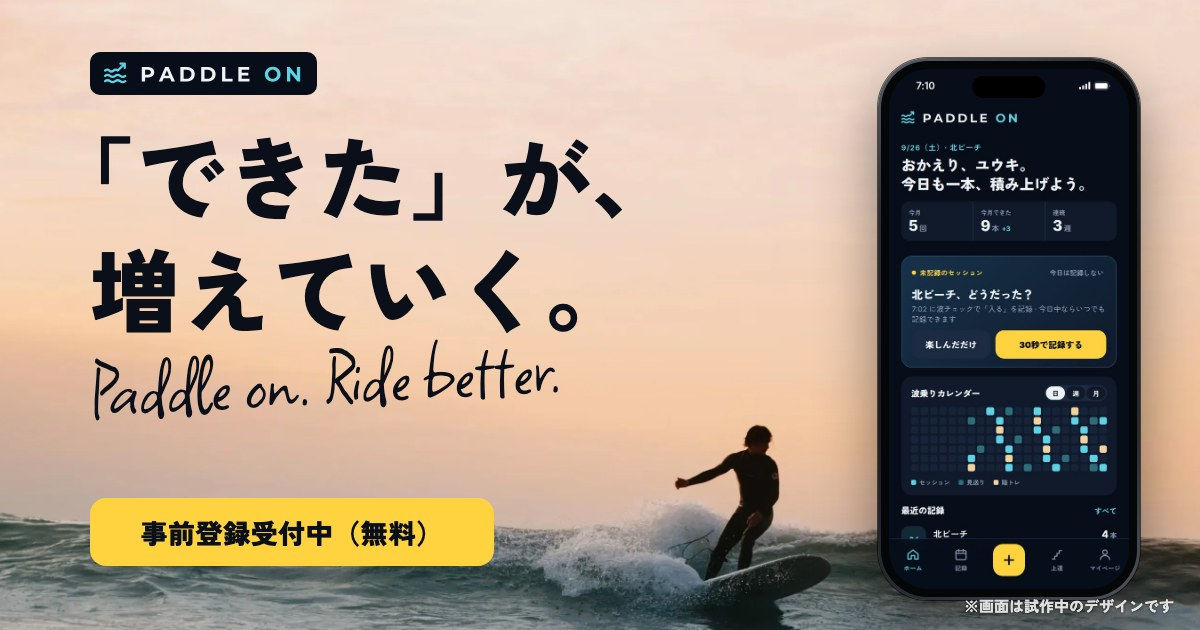
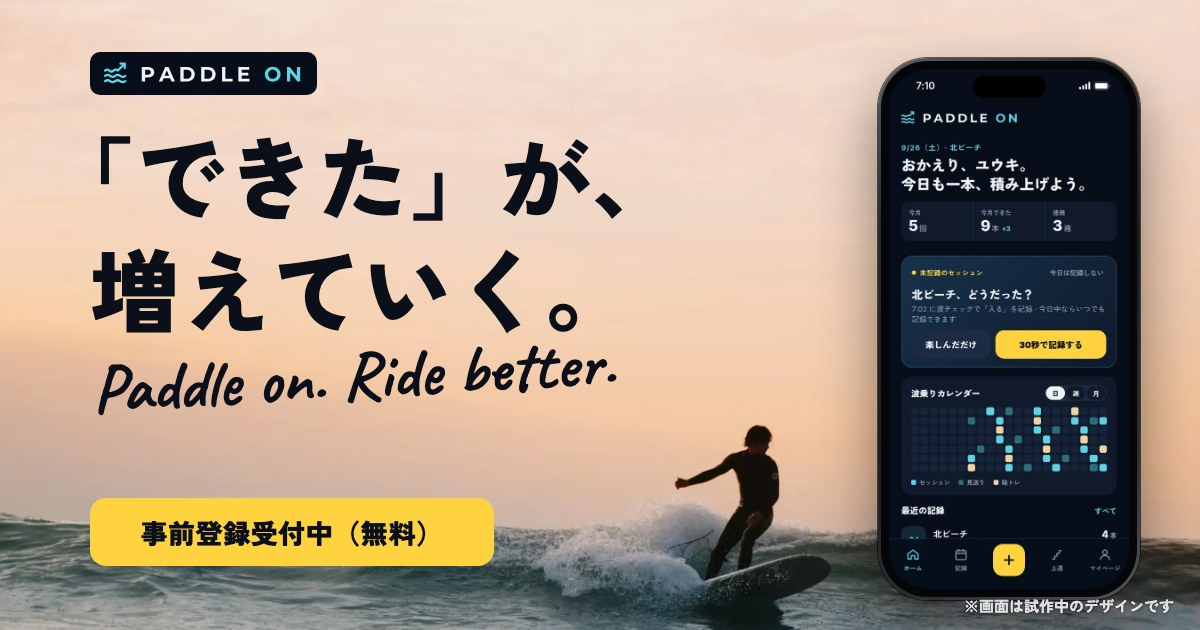
キャッチコピーのフォントを Caveat に変更（LP と OGP 画像）

Changed region(s): [[0.0617, 0.5429, 0.5242, 0.6635]]

diff --git a/og/og.html b/og/og.html
@@ -10,7 +10,7 @@
 -->
 <link rel="preconnect" href="https://fonts.googleapis.com">
 <link rel="preconnect" href="https://fonts.gstatic.com" crossorigin>
-<link href="https://fonts.googleapis.com/css2?family=Square+Peg&display=block" rel="stylesheet">
+<link href="https://fonts.googleapis.com/css2?family=Caveat:wght@600&display=block" rel="stylesheet">
 <style>
 @font-face{font-family:'Zen Kaku Gothic New';font-weight:700;src:url(../public/fonts/zkgn-700.woff2) format('woff2')}
 @font-face{font-family:'Zen Kaku Gothic New';font-weight:900;src:url(../public/fonts/zkgn-900.woff2) format('woff2')}
@@ -21,7 +21,7 @@ body{position:relative;font-family:'Zen Kaku Gothic New',sans-serif;color:#0A0F1
   --bg-w:2330px;--bg-x:-480px;--bg-y:-180px}
 .logo{position:absolute;left:90px;top:52px;display:flex;align-items:center;height:43px;padding:0 14px;border-radius:10px;background:#070E1A}
 h1{position:absolute;left:90px;top:118px;margin:0;font-weight:900;font-size:90px;line-height:1.25;letter-spacing:.01em;text-indent:-.5em;padding-left:.5em;margin-left:-.5em;white-space:nowrap}
-.tagline{position:absolute;left:92px;top:352px;font-family:'Square Peg',cursive;font-size:84px;line-height:1;white-space:nowrap;transform:rotate(-3deg);transform-origin:left center}
+.tagline{position:absolute;left:92px;top:356px;font-family:'Caveat',cursive;font-weight:600;font-size:68px;line-height:1;white-space:nowrap;transform:rotate(-3deg);transform-origin:left center}
 .cta{position:absolute;left:90px;top:498px;display:flex;align-items:center;justify-content:center;width:404px;height:68px;border-radius:16px;background:#FFD23F;font-weight:900;font-size:27px;letter-spacing:.02em}
 /* アプリの画面（LP の .iphone と同じ作り） */
 .iphone{--w:262px;position:absolute;left:878px;top:58px;width:var(--w);padding:3px;border-radius:calc(var(--w)*.19);background:linear-gradient(145deg,#5A5F69 0%,#2A2D33 22%,#1B1D21 50%,#2A2D33 78%,#50545D 100%);box-shadow:0 30px 60px rgba(0,0,0,.45),0 0 0 1px rgba(0,0,0,.6)}

diff --git a/public/index.html b/public/index.html
@@ -29,7 +29,7 @@
 <link rel="preload" as="image" href="img/hero-bg-sp.webp" media="(max-width:960px)" fetchpriority="high">
 <link rel="preconnect" href="https://fonts.googleapis.com">
 <link rel="preconnect" href="https://fonts.gstatic.com" crossorigin>
-<link href="https://fonts.googleapis.com/css2?family=Inter:wght@400;600;700;800;900&family=Montserrat:wght@700&family=Square+Peg&display=swap" rel="stylesheet">
+<link href="https://fonts.googleapis.com/css2?family=Inter:wght@400;600;700;800;900&family=Montserrat:wght@700&family=Caveat:wght@600&display=swap" rel="stylesheet">
 <style>
 @font-face{font-family:'Zen Kaku Gothic New';font-weight:500;font-display:swap;src:url(fonts/zkgn-500.woff2) format('woff2')}
 @font-face{font-family:'Zen Kaku Gothic New';font-weight:700;font-display:swap;src:url(fonts/zkgn-700.woff2) format('woff2')}
@@ -79,7 +79,7 @@ section{scroll-margin-top:72px}
 .hero .copy{display:flex;flex-direction:column;gap:22px}
 .pill{align-self:flex-start;font-size:12px;font-weight:700;color:var(--cyan);letter-spacing:.1em;border:1px solid rgba(94,211,230,.4);padding:4px 10px;border-radius:999px}
 .hero h1{font-size:clamp(36px,5.6vw,58px);line-height:1.25;text-indent:-.5em}
-.tagline{font-family:'Square Peg',cursive;font-weight:400;letter-spacing:.01em;color:var(--cyan);font-size:clamp(40px,4.1vw,52px);line-height:1.1;transform:rotate(-3deg);transform-origin:left center;margin-top:-4px}
+.tagline{font-family:'Caveat',cursive;font-weight:600;letter-spacing:.01em;color:var(--cyan);font-size:clamp(32px,3.3vw,42px);line-height:1.1;transform:rotate(-3deg);transform-origin:left center;margin-top:-4px}
 .hero .lead{max-width:34em}
 .cta-row{display:flex;flex-wrap:wrap;gap:12px;align-items:center}
 .store{position:relative;display:inline-flex;align-items:center;gap:8px;height:48px;padding:0 16px;border-radius:12px;border:1px solid var(--line);color:var(--text);font-size:13px;font-weight:800}

diff --git a/docs/operations.md b/docs/operations.md
@@ -24,7 +24,7 @@ GA4の管理画面 →「データの表示」→「イベント」で `sign_up`
 ## 注意
 
 - **日本語フォント**：`public/fonts/` の Zen Kaku Gothic New は、ページ内の文字だけに絞って軽くしています（1ファイル約70KB）。文章を書き換えて新しい漢字を使うと、その文字だけ別の書体で表示されます。`npm run check` が足りない文字を知らせるので、出たらフォントを作り直します。
-- **英字フォント**：Inter・Montserrat・Square Peg は Google Fonts から読み込んでいます（プライバシーポリシーの「4. 外部サービスの利用」に記載済み）。
+- **英字フォント**：Inter・Montserrat・Caveat は Google Fonts から読み込んでいます（プライバシーポリシーの「4. 外部サービスの利用」に記載済み）。
 
 - **Supabase の無料プラン**は、7日間データベースへのアクセスが少ないとプロジェクトが一時停止されます（停止の約1週間前と停止時に、オーナーにメールが届きます）。LPを見られるだけでは Supabase にアクセスしないので、登録が1週間なければ止まり、フォームが送れなくなります。止まったらダッシュボードから再開できます（停止から90日以内）。
   - 対策として、GitHub Actions の **Keepalive**（`.github/workflows/keepalive.yml`）が毎日 9:17（日本時間）に登録の関数を形式が誤ったメールアドレスで呼んでいます（行は増えず、お礼メールも送られません）。応答がおかしければワークフローが失敗し、GitHub からメールが届きます。
